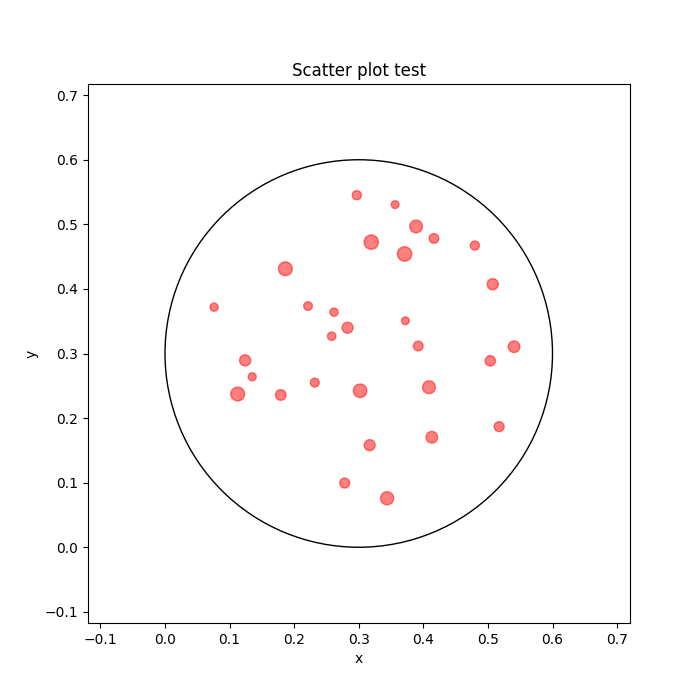
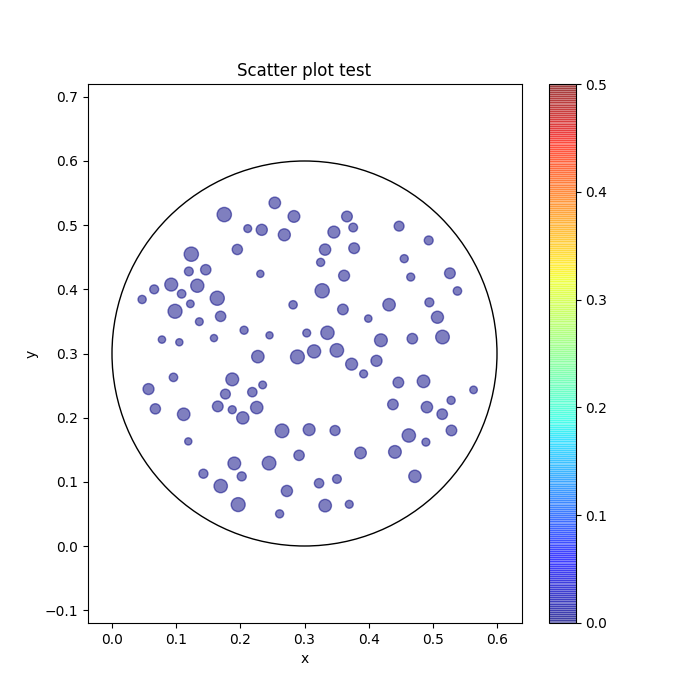
wip

diff --git a/visualizeData.py b/visualizeData.py
@@ -24,12 +24,16 @@ for i in range(0, totalFrames):
                                  dtype=types,
                                  names=["ID", 'x', 'y', 'vx', 'vy', 'theta', 'radius']))
 showingFrame = 0
+norm = plt.Normalize(0,.5)
 cmap = plt.get_cmap('jet')
-
-scat = plt.scatter(data[showingFrame]["x"], data[showingFrame]['y'], alpha=0.5, s=pow(data[0]['radius'],2)*270000, colors=cmap())
+# speed =
+velocity = np.square(data[showingFrame]["vy"]) + np.square(data[showingFrame]["vx"])
+scat = plt.scatter(data[showingFrame]["x"], data[showingFrame]['y'], alpha=0.5, s=pow(data[0]['radius'], 2) * 60*10000,
+                   c=velocity, cmap='jet', norm=norm)
 plt.title('Scatter plot test')
 # plt.gca().set_aspect('equal', adjustable='box')
 plt.axis("equal")
+plt.colorbar()
 domain = np.genfromtxt(path + "/domain.txt",
                        delimiter=',',
                        dtype=domainTypes,
@@ -44,12 +48,13 @@ plt.ylabel('y')
 b_circle = plt.Circle((.3, .3), .3, fill=False)
 plt.gca().add_artist(b_circle)
 
-
 plt.savefig('exports/test.png')
 
 
 def update(frame_number):
     scat.set_offsets(np.c_[data[frame_number]["x"], data[frame_number]["y"]])
+    velocityUpdated = np.square(data[frame_number]["vy"]) + np.square(data[frame_number]["vx"])
+    scat.set_array(np.square(velocityUpdated))
 
 
 animation = animation.FuncAnimation(fig, update, interval=40, frames=totalFrames)

diff --git a/main.cpp b/main.cpp
@@ -45,9 +45,9 @@ int main(int argc, char **argv) {
     double paletteRelativeWidth = .3;
     double paletteGrainRadius = .01;
 
-    int numberOfGrains = 30;
+    int numberOfGrains = 100;
     int numberOfGrainsWithPalettes = numberOfGrains + (totalPalettesGrains);
-    double radius = 0.015;
+    double radius = 0.010;
     double mass;
     double rho = 2000.;
     auto *grains = new Grain[numberOfGrainsWithPalettes];
